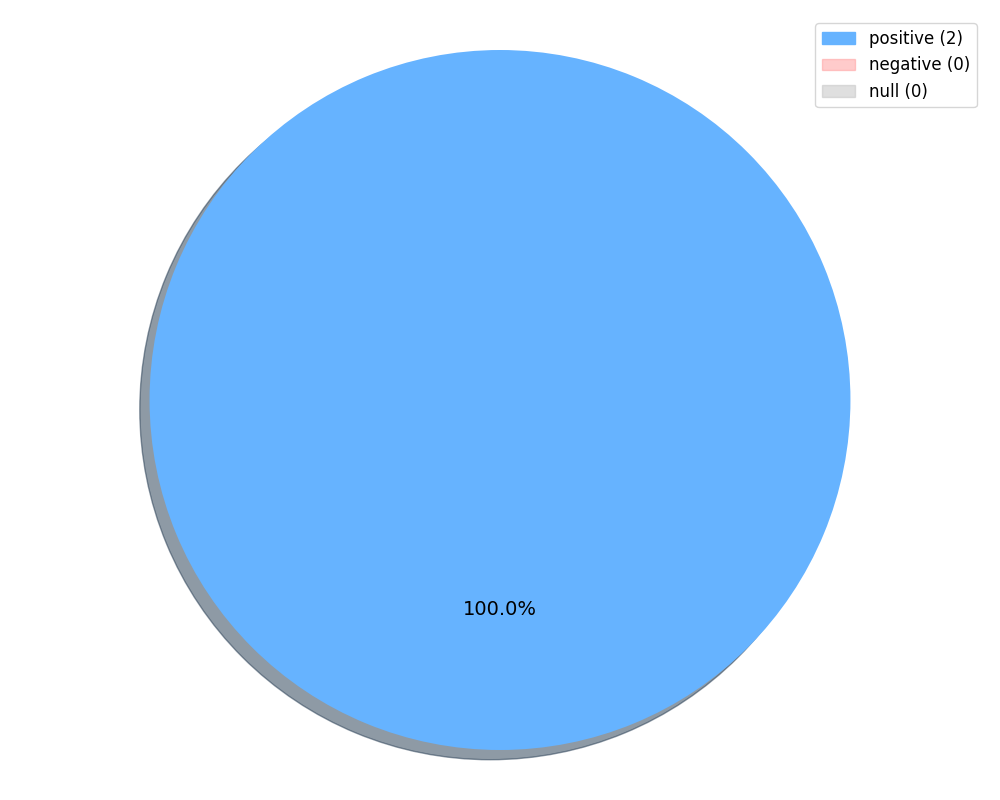
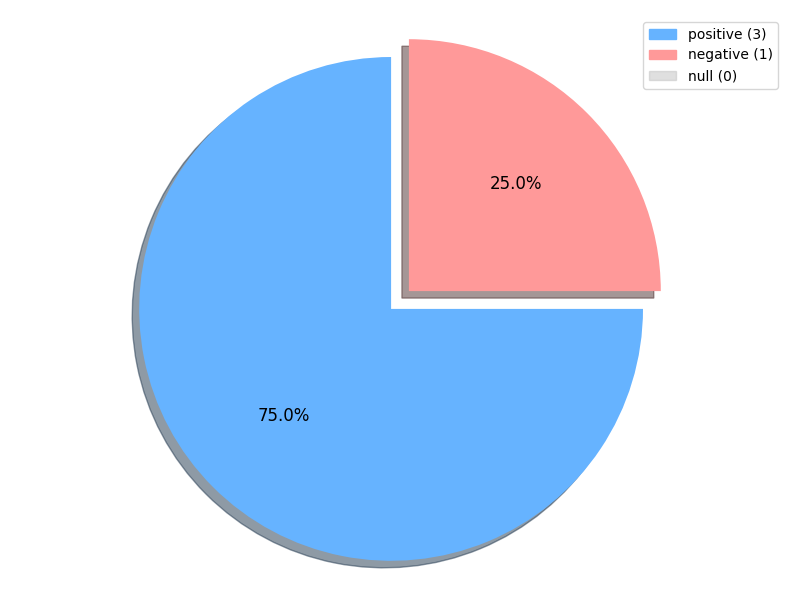
종석 리뷰 update

diff --git a/teamProjectTest/src/main/java/com/itwillbs/service/ReviewService.java b/teamProjectTest/src/main/java/com/itwillbs/service/ReviewService.java
@@ -21,31 +21,35 @@ public class ReviewService {
 
 	public void insertReview(ReviewDTO reviewDTO){
 		System.out.println("insertReview service() " +reviewDTO );
-        // ✅ 감정 분석 결과 저장
+        // 감정 분석 결과 저장
         String sentiment = openAiService.analyzeSentiment(reviewDTO.getReviewContent());
         reviewDTO.setSentiment(sentiment); // DTO에 sentiment 필드 추가해야 함
 		System.out.println("insertReview service() " +reviewDTO );
 		reviewMapper.insertReview(reviewDTO);
-//		try {
-//		    // 전체 차트를 갱신할 경우
-////		    ProcessBuilder pb = new ProcessBuilder("python", "C:\\Users\\admin\\git\\test1\\teamProjectTest\\src\\main\\webapp\\resources\\py_chart\\chart.py");
-//
-//		    // 만약 특정 movieId만 갱신하고 싶으면 아래처럼 인자 전달
-//		     ProcessBuilder pb = new ProcessBuilder("python", "C:\\Users\\admin\\git\\test1\\teamProjectTest\\src\\main\\webapp\\resources\\py_chart\\chart.py", String.valueOf(reviewDTO.getMovieId()));
-//
-//		    pb.redirectErrorStream(true);
-//		    Process process = pb.start();
-//
-//		    BufferedReader reader = new BufferedReader(new InputStreamReader(process.getInputStream()));
-//		    String line;
-//		    while ((line = reader.readLine()) != null) {
-//		        System.out.println("[PYTHON] " + line);
-//		    }
-//
-//		    process.waitFor();
-//		} catch (Exception e) {
-//		    e.printStackTrace();
-//		}
+		
+		// 차트 생성
+	    try {
+	        String pythonExe = "C:\\Users\\admin\\AppData\\Local\\Programs\\Python\\Python313\\python.exe"; 
+	        String scriptPath = "C:\\Users\\admin\\git\\test1\\teamProjectTest\\src\\main\\webapp\\resources\\py_chart\\chart.py";
+
+	        ProcessBuilder pb = new ProcessBuilder(pythonExe, scriptPath, String.valueOf(reviewDTO.getMovieId()));
+	        pb.redirectErrorStream(true);
+	        Process process = pb.start();
+
+	        BufferedReader reader = new BufferedReader(new InputStreamReader(process.getInputStream()));
+	        String line;
+	        while ((line = reader.readLine()) != null) {
+	            System.out.println("[PYTHON] " + line);
+	        }
+
+	        int exitCode = process.waitFor();
+	        if (exitCode != 0) {
+	            System.err.println("파이차트 생성 실패");
+	        }
+	    } catch (Exception e) {
+	        System.err.println("차트 실행 중 오류");
+	        e.printStackTrace();
+	    }
 	}
 
 	public int deleteReview(int reviewId) {

diff --git a/teamProjectTest/src/main/webapp/resources/py_chart/chart.py b/teamProjectTest/src/main/webapp/resources/py_chart/chart.py
@@ -98,9 +98,20 @@ def main():
     plt.axis("equal")
     plt.tight_layout()
 
-    save_dir = "C:/Users/admin/git/test1/teamProjectTest/src/main/webapp/resources/py_chart/pie_charts"
+    save_dir = "C:/Users/admin/workspace/.metadata/.plugins/org.eclipse.wst.server.core/tmp0/wtpwebapps/teamProjectTest/resources/py_chart/pie_charts"
     os.makedirs(save_dir, exist_ok=True)
-    plt.savefig(f"{save_dir}/{target_movie_id}.png")
+    save_path = f"{save_dir}/{target_movie_id}.png"
+
+    # ✅ 기존 파일 삭제 (안전한 덮어쓰기 보장)
+    if os.path.exists(save_path):
+        os.remove(save_path)
+        print(f"🔁 기존 파일 삭제: {save_path}")
+    else:
+        print(f"📁 새 파일 저장 예정: {save_path}")
+
+    plt.savefig(save_path)
+    print(f"✅ 차트 저장 완료: {save_path}")
+    plt.close()
 
     print(f"movie_id {target_movie_id} 차트 저장 완료.")
 

diff --git a/teamProjectTest/src/main/java/com/itwillbs/config/WebMvcConfig.java b/teamProjectTest/src/main/java/com/itwillbs/config/WebMvcConfig.java
@@ -1,0 +1,17 @@
+package com.itwillbs.config;
+
+import org.springframework.context.annotation.Configuration;
+import org.springframework.http.CacheControl;
+import org.springframework.web.servlet.config.annotation.*;
+
+@Configuration
+public class WebMvcConfig implements WebMvcConfigurer {
+
+    @Override
+    public void addResourceHandlers(ResourceHandlerRegistry registry) {
+        registry.addResourceHandler("/resources/**")
+                .addResourceLocations("file:///C:/Users/admin/git/test1/teamProjectTest/src/main/webapp/resources/")
+                .setCacheControl(CacheControl.noStore()) // ✅ 브라우저/서버 캐시 모두 차단
+                .resourceChain(false); // ✅ 리소스 캐싱 체인 비활성화
+    }
+}
